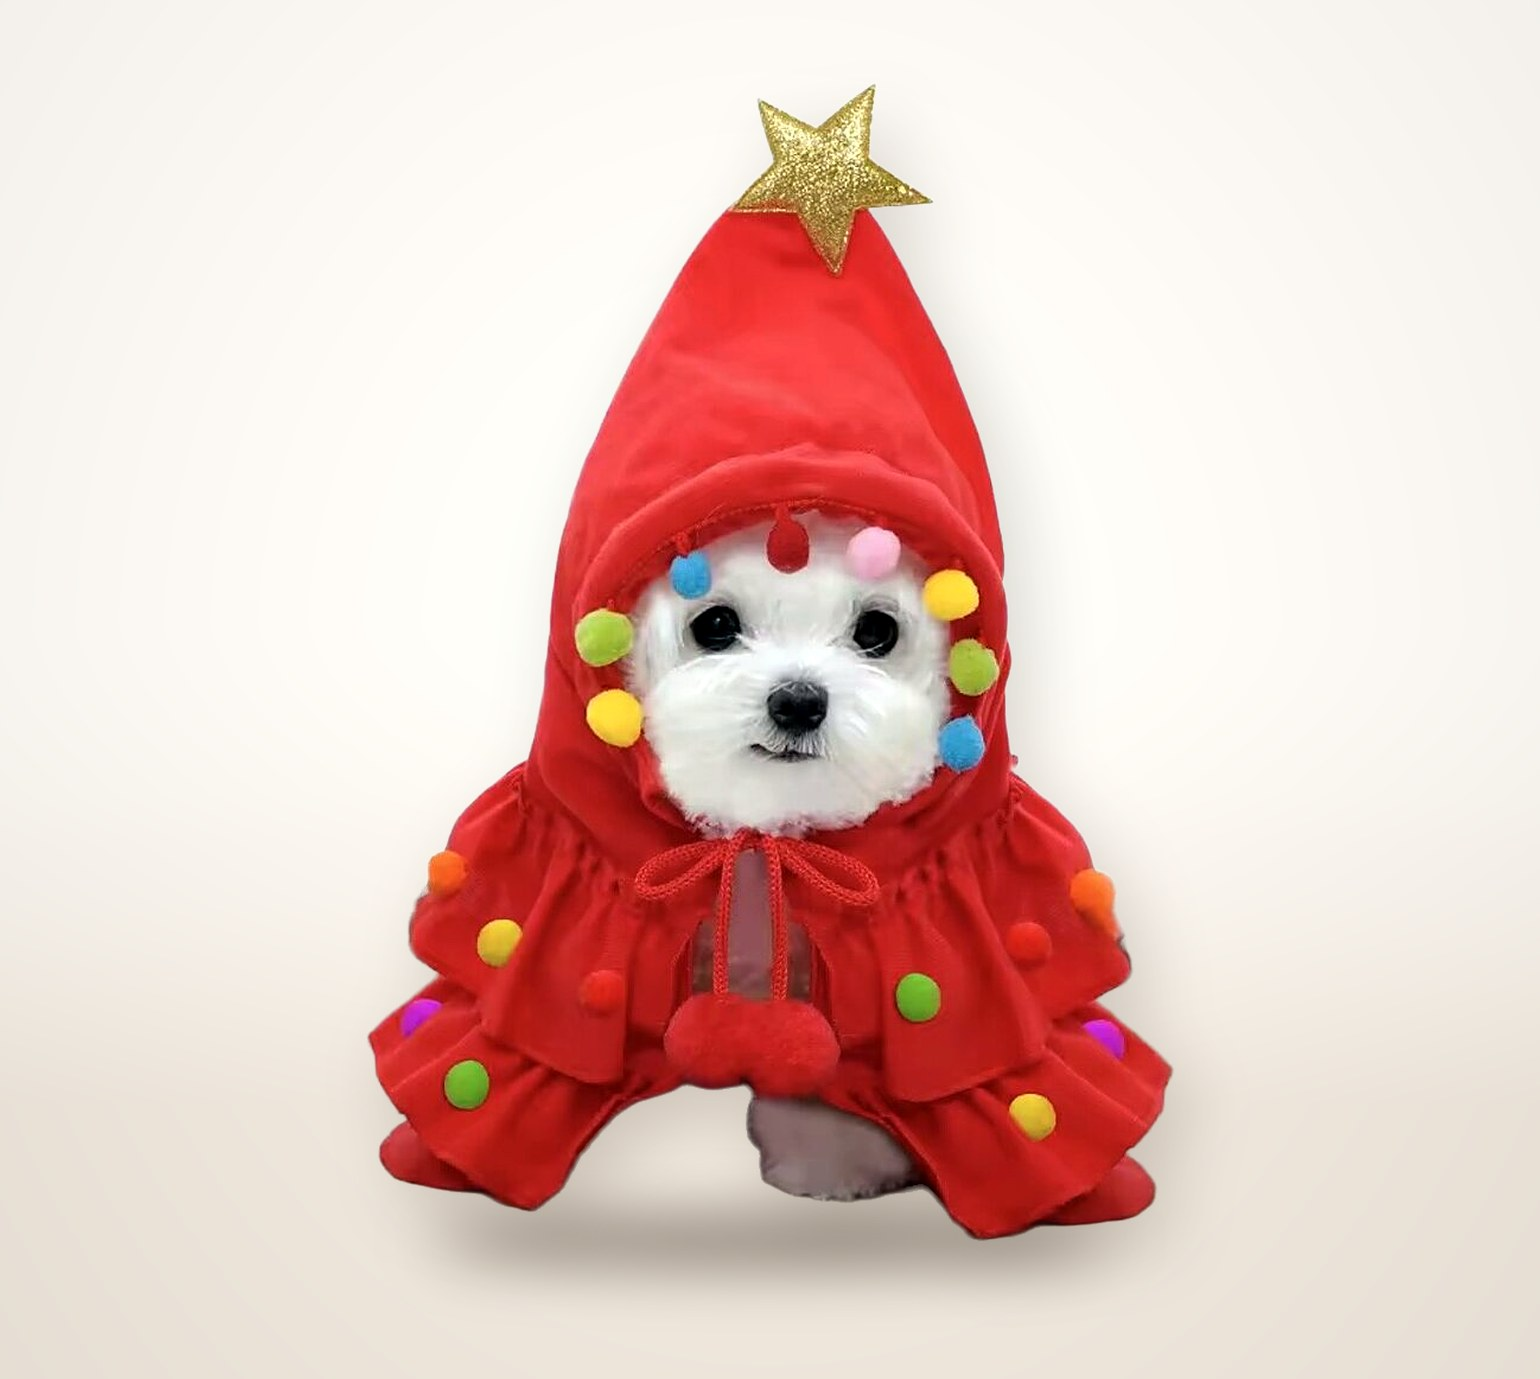
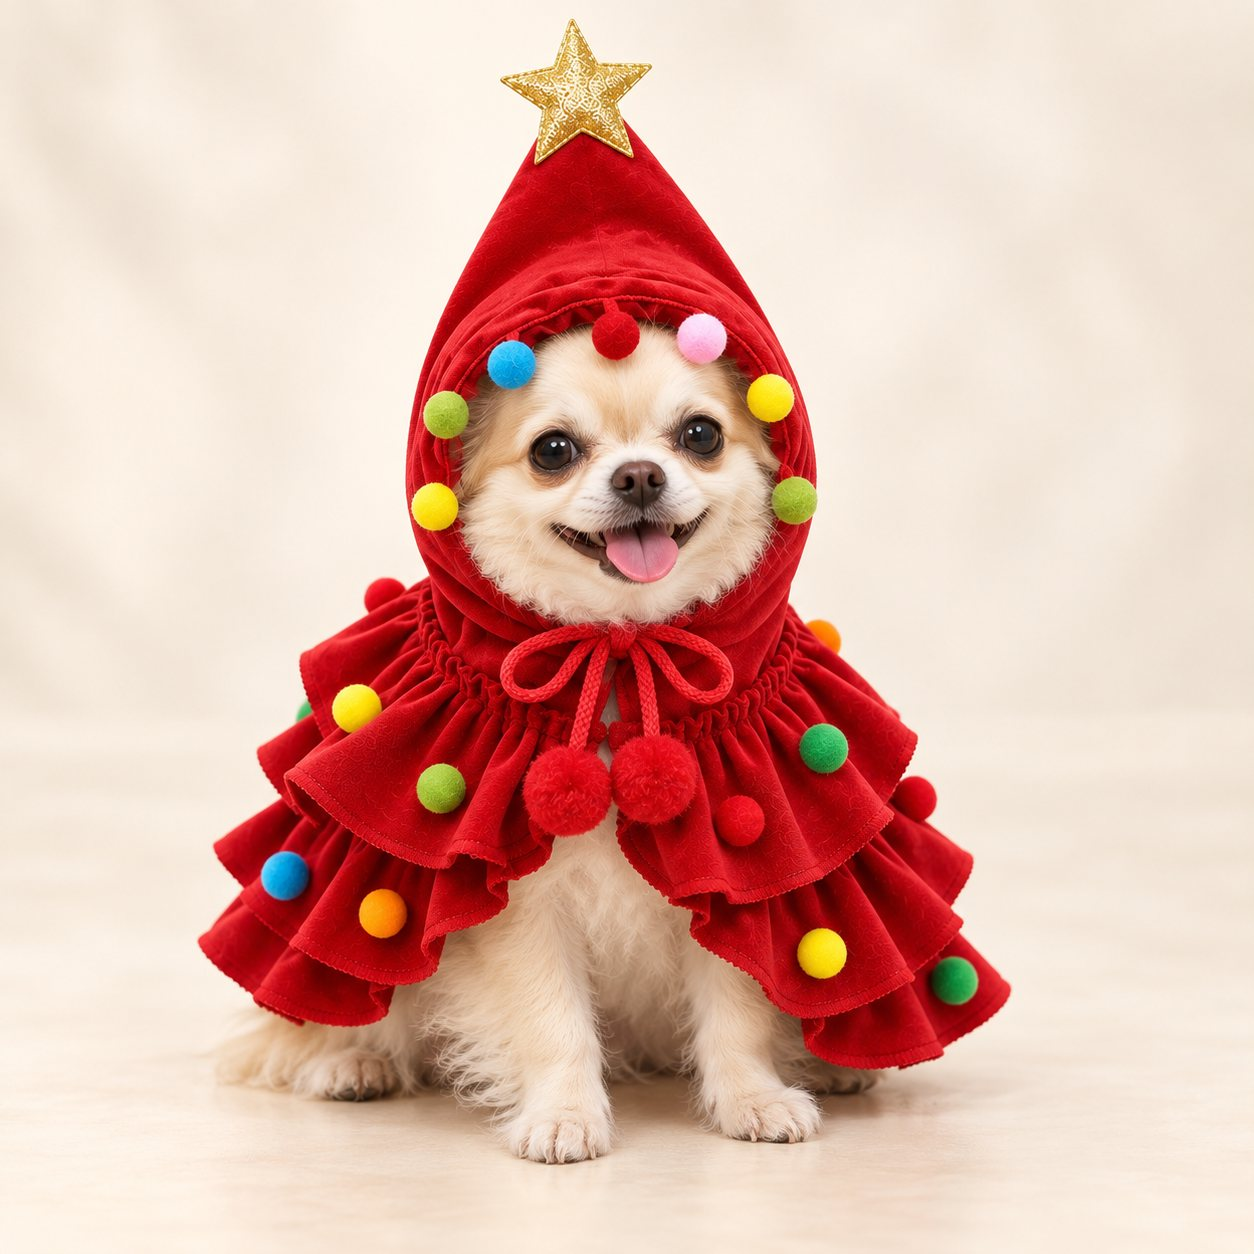
Use littletreepups.com's photos of the costume
The owner asked for the reference store's product photos in place of ours:
it is the same dropshipped costume, and they did not like our shots. Red
studio shot as the listing image, green studio shot in the gallery, the
details sheet, the two-dog duo and the cat as extras, the cat for the story,
a living-room shot for the steps, and a shih tzu and a schnauzer for the
photo pair, which now says the images are AI-styled, as the reference does.

Their size-guide graphic (their wordmark and measurements) and colour graphic
(it promises a colour per pet inside a bundle) were left out. The gallery
gained a per-colour `photos` override so the page can show the green worn
without a catalogue migration.

Claude-Session: https://claude.ai/code/session_018dQUKyESbBTk1yhBafq7Cd

diff --git a/apps/storefront/src/lib/store/christmas-costume-manifest.ts b/apps/storefront/src/lib/store/christmas-costume-manifest.ts
@@ -55,12 +55,21 @@ export const CHRISTMAS_COSTUME_PAGE: FunnelDefinition = {
 			requires: ['variants.designs'],
 			props: {
 				designs: { $ref: 'variants.designs' },
+				// Red is the catalogue's own photo (worn-red.jpg, the listing image
+				// everywhere else too). Green's catalogue photo is a flat-lay, so the
+				// page shows the green costume worn instead.
+				photos: {
+					green: {
+						src: '/products/dog-christmas-costume/green-studio.jpg',
+						alt: 'A small curly-haired dog wearing the green Christmas tree costume, hood up, gold star on top'
+					}
+				},
 				// The shots not tied to a colour, after the colours' own photos, so
 				// every angle is one swipe away on the first screen.
 				extras: [
-					{ src: '/products/dog-christmas-costume/green-back.jpg', alt: 'The green costume from behind: three ruffled tiers shaped like a tree, star on top' },
-					{ src: '/products/dog-christmas-costume/red.jpg', alt: 'The red Christmas tree costume, front, with the hood, star and pom-poms' },
-					{ src: '/products/dog-christmas-costume/hood-detail.jpg', alt: 'Close-up of the hood opening, the tie cord and the button' }
+					{ src: '/products/dog-christmas-costume/details.jpg', alt: 'The green costume worn, with close-ups of the gold star topper, the pom-poms and the layered cape' },
+					{ src: '/products/dog-christmas-costume/duo.jpg', alt: 'Two small dogs by a Christmas tree, one in the green costume and one in the red' },
+					{ src: '/products/dog-christmas-costume/cat.jpg', alt: 'A tabby cat wearing the green Christmas tree costume on a rug' }
 				],
 				hint: 'Swipe to explore',
 				title: 'Dog Christmas Tree Costume photos'
@@ -174,8 +183,8 @@ export const CHRISTMAS_COSTUME_PAGE: FunnelDefinition = {
 					{ title: 'Off as fast as it goes on', body: 'One cord and one button. Dress them for the photo, the party or the visit, then let them be a dog again.' }
 				],
 				image: {
-					src: '/products/dog-christmas-costume/green-back.jpg',
-					alt: 'The green costume from behind: three ruffled tiers shaped like a tree, star on top'
+					src: '/products/dog-christmas-costume/cat.jpg',
+					alt: 'A tabby cat wearing the green Christmas tree costume on a rug'
 				}
 			}
 		},
@@ -186,14 +195,14 @@ export const CHRISTMAS_COSTUME_PAGE: FunnelDefinition = {
 			// The costume itself, in both colours: the photos are the ones we ship
 			// from, so the captions describe the costume, not a customer.
 			props: {
-				eyebrow: 'Red or green. Same little tree.',
-				title: 'Pick their colour.',
-				sub: 'Both colours have the same cut, the same glitter star and the same pom-pom baubles. Choose by your dog’s weight, not their breed.',
+				eyebrow: 'Every breed, one little tree.',
+				title: 'Small dogs, big Christmas.',
+				sub: 'Fluffy, scruffy or sleek: it sits the same on every small dog. Choose by your dog’s weight, not their breed.',
 				photos: [
-					{ src: '/products/dog-christmas-costume/worn-red.jpg', alt: 'A small white dog wearing the red Christmas tree costume, hood up, gold star on top', caption: 'Classic Christmas red' },
-					{ src: '/products/dog-christmas-costume/green.jpg', alt: 'The green Christmas tree costume laid flat: hood, tie cord, pom-poms and the glitter star', caption: 'Pine-tree green' }
+					{ src: '/products/dog-christmas-costume/shih-tzu.jpg', alt: 'A shih tzu in the green Christmas tree costume in front of a decorated tree', caption: 'Ready by the tree' },
+					{ src: '/products/dog-christmas-costume/schnauzer.jpg', alt: 'A miniature schnauzer in the green Christmas tree costume', caption: 'Ready for the photo' }
 				],
-				note: 'For small dogs and cats up to 17 lb (7.5 kg). See the size guide below.'
+				note: 'AI-styled images. For small dogs and cats up to 17 lb (7.5 kg); see the size guide below.'
 			}
 		},
 		{
@@ -206,8 +215,8 @@ export const CHRISTMAS_COSTUME_PAGE: FunnelDefinition = {
 				title: 'On in ten seconds.',
 				lead: 'No legs to thread, no zips. Hood, cord, button — done.',
 				image: {
-					src: '/products/dog-christmas-costume/hood-detail.jpg',
-					alt: 'Close-up of the hood opening, the tie cord and the button'
+					src: '/products/dog-christmas-costume/living-room.jpg',
+					alt: 'A small dog in the green Christmas tree costume sitting on a rug by the Christmas tree'
 				},
 				steps: [
 					{ title: 'Pop the hood on', body: 'Or leave it back on the neck like a collar. The tree still reads from behind.' },

diff --git a/apps/storefront/src/lib/blocks/DesignGallery.svelte b/apps/storefront/src/lib/blocks/DesignGallery.svelte
@@ -30,10 +30,21 @@
 			stateField?: string;
 			title?: string;
 			hint?: string;
+			/**
+			 * A page's own photo for a design, by code, in place of the
+			 * catalogue's. Lets a page reshoot a colour without a catalogue
+			 * migration; the design itself still comes from the catalogue.
+			 */
+			photos?: Record<string, { src: string; alt?: string }>;
 		}
 	);
 
-	const designs = $derived(p.designs ?? []);
+	const designs = $derived(
+		(p.designs ?? []).map((d) => {
+			const own = p.photos?.[d.code];
+			return own?.src ? { ...d, image: own.src, alt: own.alt ?? d.alt } : d;
+		})
+	);
 	const extras = $derived((p.extras ?? []).filter((e) => e.src));
 	const field = $derived(p.stateField ?? 'design');
 	const current = $derived(

diff --git a/AGENTS.md b/AGENTS.md
@@ -1214,7 +1214,21 @@ pixels are the supplier's, with levels, +7% saturation and light sharpening
 only. Gallery shots are 1540x1379 (the gallery's 1100:985 frame at retina
 size), the grid shots 1400 square. `hero-both.webp` is the red dog and the
 green costume from the same cut-outs, side by side on a transparent
-background; it is no longer on the page but is kept for ads. Nothing about the product was generated or altered: it
+background; it is no longer on the page but is kept for ads.
+
+On 2026-10-16 the owner replaced the costume page's photos with
+littletreepups.com's (same dropshipped product; the owner's call). Taken from
+that page and re-encoded as plain JPEGs with no metadata: `worn-red.jpg` (now
+their red studio shot, so the catalogue's listing image, the sticky bar, the
+bundle cards and og:image all show it), `green-studio.jpg` (the gallery's
+green, via the gallery's `photos` override, since the catalogue's green row is
+still the flat-lay), `details.jpg`, `duo.jpg`, `cat.jpg`, `living-room.jpg`,
+`shih-tzu.jpg`, `schnauzer.jpg`. Not taken: their size-guide graphic (their
+wordmark and their measurements) and their colour graphic (it promises a
+colour per pet inside a bundle, which ours does not do). Their lifestyle shots
+are AI-styled, and the page says so under the photo pair, as theirs does. The
+older supplier treatments (`red.jpg`, `green.jpg`, `green-back.jpg`,
+`hood-detail.jpg`) stay on disk because catalogue media rows point at them. Nothing about the product was generated or altered: it
 is the real costume on a plain background. Its copy was written here.
 
 Don't add further third-party branding, photography, or marketing text without
